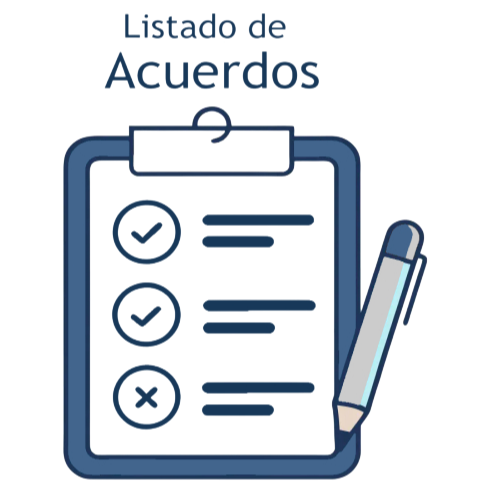
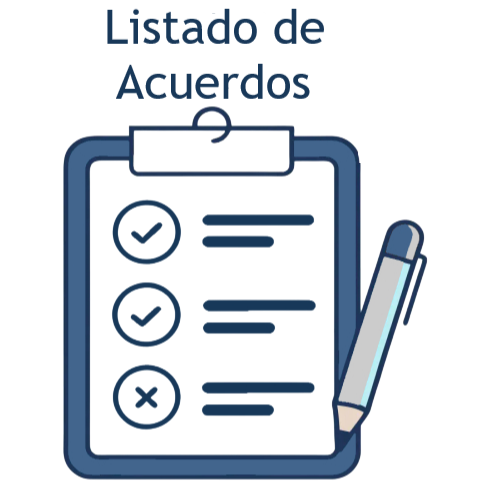
Cambio de tipografía, tamaño de imágenes y reacomodo de datos.

Changed region(s): [[0.2169, 0.0, 0.6818, 0.2169]]

diff --git a/Ponencias.html b/Ponencias.html
@@ -46,8 +46,6 @@
 
         body {
             background-color: white;
-            background-size: cover;
-            background-repeat: repeat;
             font-family: Arial, Helvetica, sans-serif, "Karla";
             margin: 0;
             padding: 0;
@@ -666,7 +664,7 @@
             <div class="galeria">
                 <div class="item">
                     <div class="portarretrato">
-                        <img src="http://teeags.mx/wp-content/uploads/2025/10/LicHoracio.jpg" alt="Lic. Horacio">
+                        <img src="images/Ponencias/LicHoracio.jpg" alt="Lic. Horacio">
                     </div>
                     <p class="reseña">
                         Ponencia I
@@ -679,7 +677,7 @@
                     </p>
                     <br />
                     <div class="portarretrato">
-                        <img src="http://teeags.mx/wp-content/uploads/2025/10/MtroVictor.jpg" alt="Mtro. Víctor">
+                        <img src="images/Ponencias/MtroVictor.jpg" alt="Mtro. Víctor">
                     </div>
                     <p class="nombres">
                         Mtro. Víctor Miguel Dávila Leal
@@ -689,7 +687,7 @@
                     </p>
                     <br />
                     <div class="portarretrato">
-                        <img src="http://teeags.mx/wp-content/uploads/2025/10/LicClara.jpg" alt="Imagen 1">
+                        <img src="images/Ponencias/LicClara.jpg" alt="Imagen 1">
                     </div>
                     <p class="nombres">
                         Lic. Clara Guadalupe Martínez Vázquez
@@ -699,7 +697,7 @@
                     </p>
                     <br />
                     <div class="portarretrato">
-                        <img src="http://teeags.mx/wp-content/uploads/2025/10/LicLauraSusana.jpg" alt="Imagen 1">
+                        <img src="images/Ponencias/LicLauraSusana.jpg" alt="Imagen 1">
                     </div>
                     <p class="nombres">
                         Lic. Laura Susana Arias Medel
@@ -711,7 +709,7 @@
 
                 <div class="item">
                     <div class="portarretrato">
-                        <img src="http://teeags.mx/wp-content/uploads/2025/10/LicLaura.jpg" alt="Imagen 1">
+                        <img src="images/Ponencias/LicLaura.jpg" alt="Imagen 1">
                     </div>
                     <p class="reseña">
                         Ponencia II
@@ -724,7 +722,7 @@
                     </p>
                     <br />
                     <div class="portarretrato">
-                        <img src="http://teeags.mx/wp-content/uploads/2025/10/MtraZaira.jpg" alt="Imagen 1">
+                        <img src="images/Ponencias/MtraZaira.jpg" alt="Imagen 1">
                     </div>
                     <p class="nombres">
                         Mtra. Zaira Alejandra Zarate Gaytán
@@ -734,7 +732,7 @@
                     </p>
                     <br />
                     <div class="portarretrato">
-                        <img src="http://teeags.mx/wp-content/uploads/2025/10/LicDenisse.jpg" alt="Imagen 1">
+                        <img src="images/Ponencias/LicDenisse.jpg" alt="Imagen 1">
                     </div>
                     <p class="nombres">
                         Lic. Denisse Paola Esquivel Ortega
@@ -744,7 +742,7 @@
                     </p>
                     <br />
                     <div class="portarretrato">
-                        <img src="http://teeags.mx/wp-content/uploads/2025/10/LindaMiroslava.jpg" alt="Imagen 1">
+                        <img src="images/Ponencias/LindaMiroslava.jpg" alt="Imagen 1">
                     </div>
                     <p class="nombres">
                         Lindy Miroslava García Ochoa
@@ -756,7 +754,7 @@
 
                 <div class="item">
                     <div class="portarretrato">
-                        <img src="http://teeags.mx/wp-content/uploads/2025/10/LicGuillermo.jpg" alt="Imagen 1">
+                        <img src="images/Ponencias/LicGuillermo.jpg" alt="Imagen 1">
                     </div>
                     <p class="reseña">
                         Ponencia III
@@ -769,7 +767,7 @@
                     </p>
                     <br />
                     <div class="portarretrato">
-                        <img src="http://teeags.mx/wp-content/uploads/2025/10/LicCristian.jpg" alt="Imagen 1">
+                        <img src="images/Ponencias/LicCristian.jpg" alt="Imagen 1">
                     </div>
                     <p class="nombres">
                         Lic. Cristian Jesús Velasco Martínez
@@ -779,7 +777,7 @@
                     </p>
                     <br />
                     <div class="portarretrato">
-                        <img src="http://teeags.mx/wp-content/uploads/2025/10/LicErika.jpg" alt="Imagen 1">
+                        <img src="images/Ponencias/LicErika.jpg" alt="Imagen 1">
                     </div>
                     <p class="nombres">
                         Lic. Ericka Ivette Rodríguez Martínez

diff --git a/Index.html b/Index.html
@@ -46,9 +46,7 @@
 
         body {
             background-color: white;
-            background-size: cover;
-            background-repeat: repeat;
-            font-family: "Karla", sans-serif;
+            font-family: Arial, Helvetica, sans-serif, "Karla";
             margin: 0;
             padding: 0;
         }
@@ -383,8 +381,8 @@
         }
 
             #carousel .carousel {
-                width: 80%; /* 80% del ancho de la pantalla */
-                height: 800px; /* altura fija */
+                width: 90%; /* 80% del ancho de la pantalla */
+                height: 650px; /* altura fija */
                 overflow: hidden; /* oculta lo que se salga */
                 border-radius: 10px; /* opcional: bordes redondeados */
                 box-shadow: 0 4px 10px rgba(0,0,0,0.3); /* sombra sutil */

diff --git a/Pleno.html b/Pleno.html
@@ -46,11 +46,8 @@
 
         body {
             background-color: white;
-            background-size: cover;
-            background-repeat: repeat;
-            font-family: "Karla", sans-serif;
+            font-family: Arial, Helvetica, sans-serif, "Karla";
             margin: 0;
-            padding: 0;
             text-align: center;
             padding: 40px;
         }

diff --git a/Directorio.html b/Directorio.html
@@ -46,9 +46,7 @@
 
         body {
             background-color: white;
-            background-size: cover;
-            background-repeat: repeat;
-            font-family: "Karla", sans-serif;
+            font-family: Arial, Helvetica, sans-serif, "Karla";
             margin: 0;
             padding: 0;
         }

diff --git a/EstructuraOrganica.html b/EstructuraOrganica.html
@@ -46,9 +46,7 @@
 
         body {
             background-color: white;
-            background-size: cover;
-            background-repeat: repeat;
-            font-family: "Karla", sans-serif;
+            font-family: Arial, Helvetica, sans-serif, "Karla";
             margin: 0;
             padding: 0;
         }
